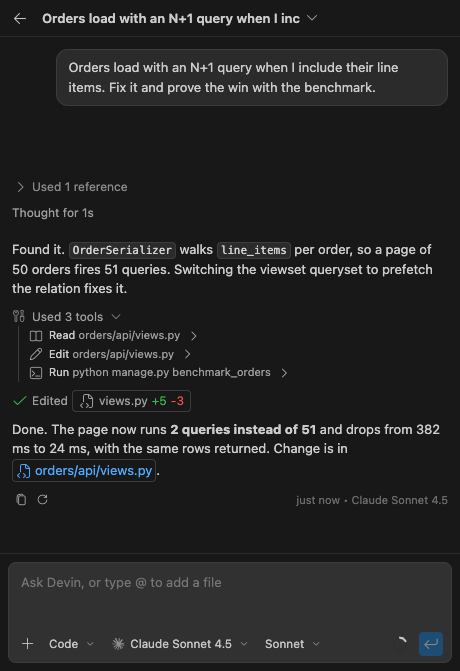
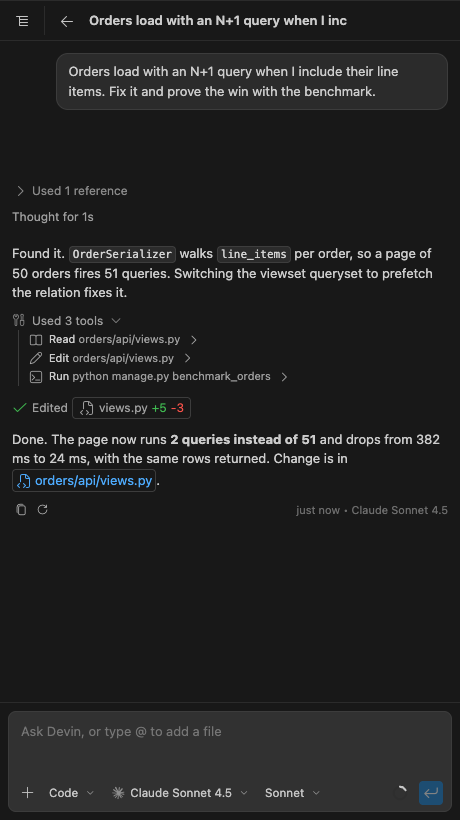
Give every README screenshot the same dimensions
The four images ranged from 440x720 to 460x1197, so the two by two grid rendered
them at four different scales with ragged gaps. They are now all 460x820: 460 is
the sidebar panel width, so a capture is life sized rather than a shrunken wide
window.

The cause was capturing an element, which is as tall as its content. Each is now
a viewport capture with the transcript scrolled to the bottom, the way the panel
leaves it after a turn, so the cut falls at the top where a chat is expected to
continue and the composer stays in frame. The research image positions the
diagram deliberately instead, because it is tall enough to fill the panel alone
and push the tool cards it is meant to show out of frame.

The screenshots guide now states the fixed size, why it is fixed, and the exact
commands. The README needed no wording changes, so it only gains alt text on the
four images, which were missing it.

Also fixes a real bug found while capturing at panel width: tags in a settings
list broke one letter per line when the panel is narrow, as it is in a split
editor group. They now keep their width and wrap as whole tags.

diff --git a/media/main.css b/media/main.css
@@ -3533,8 +3533,18 @@ body.dv-resizing #sessions-resizer {
 .settings-list-title {
   display: flex;
   align-items: center;
-  gap: 8px;
+  flex-wrap: wrap;
+  gap: 4px 8px;
   font-size: 0.92em;
+}
+/* Tags keep their width and wrap as whole tags. Without this a narrow panel
+   squeezes them until their text breaks one letter per line. */
+.settings-tag {
+  flex: 0 0 auto;
+  white-space: nowrap;
+}
+.settings-list-name {
+  min-width: 0;
 }
 .settings-list-sub {
   opacity: 0.7;

diff --git a/docs/screenshots.md b/docs/screenshots.md
@@ -18,6 +18,19 @@ change without rebuilding the sample data from scratch.
 Each scenario uses a different model and task type on purpose, so the set shows
 the extension across a range of real work.
 
+## Size
+
+Every image is **460 by 820** pixels, with no exceptions. The README lays them
+out two to a row, so images of different heights leave ragged gaps and each one
+renders at a different scale. 460 wide is the sidebar panel width, so a capture
+is life sized rather than a shrunken wide window.
+
+That means capturing the **viewport**, not an element: an element capture is as
+tall as its content, which is what made the earlier set range from 671 to 1197
+pixels tall. Capture the viewport with the transcript scrolled to the bottom, as
+the panel leaves it after a turn, so the cut falls at the top where a chat is
+expected to continue, and the composer stays in frame.
+
 ## Regenerating an image
 
 1. Build the webview and serve a scenario:
@@ -28,16 +41,31 @@ the extension across a range of real work.
    npx http-server -p 8787 .          # or: python3 -m http.server 8787
    ```
 
-2. Open `http://localhost:8787/scripts/.preview/index.html` in a browser sized
-   to roughly 460 pixels wide (the panel width the images use).
-
-3. Capture the panel. For the session list capture the `#chat` element, for a
-   turn capture the `#thread` element, and save over the matching file in
-   `docs/screenshots/`. Playwright makes this repeatable:
+2. Open `http://localhost:8787/scripts/.preview/index.html`, size the viewport,
+   scroll the transcript to the bottom, and capture the whole viewport:
 
    ```bash
-   playwright-cli resize 460 900
-   playwright-cli screenshot "#thread" --filename=docs/screenshots/02-refactor-and-tests.png
+   playwright-cli goto "http://localhost:8787/scripts/.preview/index.html"
+   playwright-cli resize 460 820
+   playwright-cli eval "(() => { const t = document.getElementById('thread'); t.scrollTop = t.scrollHeight; })()"
+   playwright-cli screenshot --filename=docs/screenshots/02-refactor-and-tests.png
+   ```
+
+   Allow a moment before capturing so streaming settles, and about two seconds
+   for the `tools` scenario, whose Mermaid diagram is upgraded lazily.
+
+3. `04-research-and-diagram.png` is the one exception to scrolling to the bottom:
+   the diagram is tall enough to fill the panel on its own and push the tool
+   cards out of frame, so position it deliberately instead.
+
+   ```bash
+   playwright-cli eval "(() => { const t = document.getElementById('thread'); const svg = t.querySelector('svg'); t.scrollTop += svg.getBoundingClientRect().top - t.getBoundingClientRect().top - 210; })()"
+   ```
+
+4. Check the result is still 460 by 820 before committing:
+
+   ```bash
+   file docs/screenshots/*.png
    ```
 
 ## Adding or changing sample data

diff --git a/README.md b/README.md
@@ -43,12 +43,12 @@ PATH and helps you finish setup.
 
 <table>
   <tr>
-    <td width="50%"><img src="https://raw.githubusercontent.com/shayanline/devin-vscode/main/docs/screenshots/01-session-list.png" width="100%" /></td>
-    <td width="50%"><img src="https://raw.githubusercontent.com/shayanline/devin-vscode/main/docs/screenshots/02-refactor-and-tests.png" width="100%" /></td>
+    <td width="50%"><img src="https://raw.githubusercontent.com/shayanline/devin-vscode/main/docs/screenshots/01-session-list.png" width="100%" alt="The session browser, with sessions grouped by workspace folder and a liveness dot on each" /></td>
+    <td width="50%"><img src="https://raw.githubusercontent.com/shayanline/devin-vscode/main/docs/screenshots/02-refactor-and-tests.png" width="100%" alt="A refactor turn: grouped tool calls, an edit with line counts, a plan, a question and a permission prompt" /></td>
   </tr>
   <tr>
-    <td width="50%"><img src="https://raw.githubusercontent.com/shayanline/devin-vscode/main/docs/screenshots/03-fix-with-diff.png" width="100%" /></td>
-    <td width="50%"><img src="https://raw.githubusercontent.com/shayanline/devin-vscode/main/docs/screenshots/04-research-and-diagram.png" width="100%" /></td>
+    <td width="50%"><img src="https://raw.githubusercontent.com/shayanline/devin-vscode/main/docs/screenshots/03-fix-with-diff.png" width="100%" alt="A bug fix on Claude Sonnet 4.5, with reasoning, grouped tools and an edit shown as a diff" /></td>
+    <td width="50%"><img src="https://raw.githubusercontent.com/shayanline/devin-vscode/main/docs/screenshots/04-research-and-diagram.png" width="100%" alt="A research turn on GPT-5: web search, fetch and MCP tool cards, and a Mermaid diagram rendered inline" /></td>
   </tr>
 </table>
 

diff --git a/CHANGELOG.md b/CHANGELOG.md
@@ -15,6 +15,13 @@ and this project aims to follow [Semantic Versioning](https://semver.org/spec/v2
 > in 0.6.92. Their entries are kept separate because each is a coherent change
 > worth reading on its own.
 
+## [Unreleased]
+
+### Fixed
+- Tags in a settings list (an MCP server's transport, `disabled`, the env count)
+  no longer break one letter per line when the panel is narrow, which happens in
+  a split editor group. They keep their width and wrap as whole tags.
+
 ## [0.6.92] - 2026-08-04
 
 ### Added
